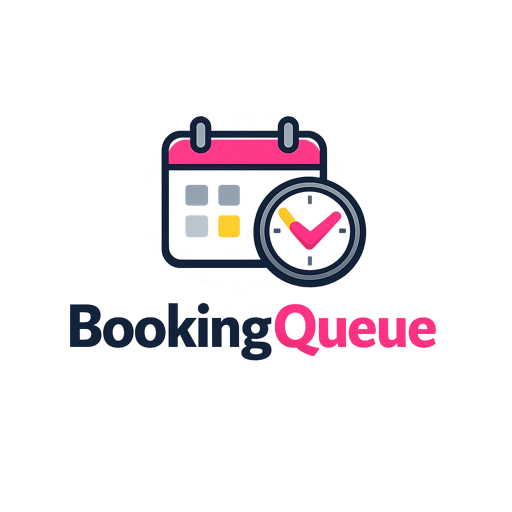
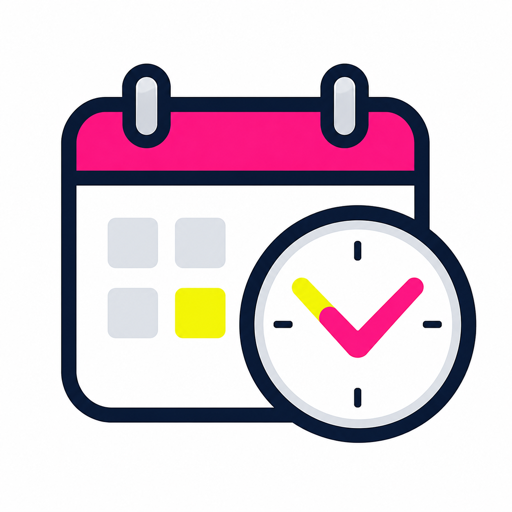
fix: update admin brand lockup
- replace the BookingQueue image asset and generated PWA icon assets with the new artwork
- render the admin brand as icon plus English and Thai names
- keep English text on Roboto and Thai text on Noto Sans Thai
- update e2e assertions for the new logo alt text

Reason: match the requested logo composition with the brand name beside the icon.

Impact: admin brand mark, PWA icon assets, and related e2e selectors.

diff --git a/src/components/BrandMark.tsx b/src/components/BrandMark.tsx
@@ -1,19 +1,46 @@
-import { Box } from '@mui/material'
+import { Box, Typography } from '@mui/material'
 
 export function BrandMark() {
   return (
-    <Box sx={{ display: 'inline-flex', alignItems: 'center', justifyContent: 'center' }}>
+    <Box sx={{ display: 'inline-flex', alignItems: 'center', justifyContent: 'center', gap: 1.15 }}>
       <Box
         component="img"
         src="/booking-queue-logo.png"
-        alt="BookingQueue"
+        alt="BookingQueue logo"
         sx={{
-          width: 156,
-          height: 62,
-          borderRadius: 2,
+          width: 46,
+          height: 46,
+          borderRadius: 1.6,
           objectFit: 'contain',
+          flexShrink: 0,
         }}
       />
+      <Box sx={{ minWidth: 0, textAlign: 'left' }}>
+        <Typography
+          component="p"
+          sx={{
+            color: 'text.primary',
+            fontFamily: '"Roboto", sans-serif',
+            fontSize: '1.16rem',
+            fontWeight: 900,
+            lineHeight: 1.02,
+          }}
+        >
+          BookingQueue
+        </Typography>
+        <Typography
+          component="p"
+          sx={{
+            color: 'text.secondary',
+            fontFamily: '"Noto Sans Thai", sans-serif',
+            fontSize: '0.8rem',
+            fontWeight: 760,
+            lineHeight: 1.25,
+          }}
+        >
+          ระบบจองคิว
+        </Typography>
+      </Box>
     </Box>
   )
 }

diff --git a/e2e/admin-dashboard.spec.ts b/e2e/admin-dashboard.spec.ts
@@ -27,10 +27,10 @@ test('admin dashboard loads booking and notification surfaces', async ({ page },
 
   if (testInfo.project.name === 'mobile-chromium') {
     await expect(page.getByRole('button', { name: 'เปิดเมนู' })).toBeVisible()
-    await expect(page.locator('header').getByAltText('BookingQueue')).toHaveCount(0)
+    await expect(page.locator('header').getByAltText('BookingQueue logo')).toHaveCount(0)
     await expect(page.locator('header').getByText('จัดการคิวจองบริการ')).toBeVisible()
     await page.getByRole('button', { name: 'เปิดเมนู' }).click()
-    await expect(page.locator('.MuiDrawer-paper').getByAltText('BookingQueue')).toBeVisible()
+    await expect(page.locator('.MuiDrawer-paper').getByAltText('BookingQueue logo')).toBeVisible()
     await expect(page.locator('.MuiDrawer-paper').getByText('FULLTANK Garage Admin')).toBeVisible()
     await page.getByRole('button', { name: 'ปิดเมนู' }).click()
   } else {